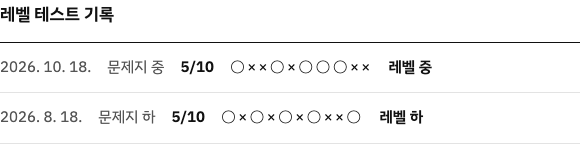
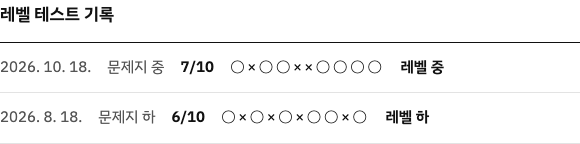
fix(onboard): 레벨 테스트 답이 정답표 밖으로 새지 않게 문항을 다시 짠다
왜: 레벨 테스트는 룰베이스 채점이다. 단답형 중 "몇 번"(4 · 4번 · 네 번 · 4회),
기호(>= · ≥ · =>), 식(-1 · len(names)-1) 은 학생이 맞게 알아도 정답표에 없는 꼴로
적으면 틀린 것으로 잡힌다. 채점 쪽 norm() 은 공백·따옴표·대소문자만 지우므로
그 범위 안에서 꼴이 하나로 정해지는 답 — print 가 찍는 숫자 하나 · 낱말 하나
(8, 11, 3, 4, 7, 나, 우산, 민지야) — 만 단답형으로 남기고 나머지는 객관식으로 바꿨다.
"3개" 처럼 단위를 붙인 답은 화면에 찍히는 값이 아니므로 받지 않는다.

같이 중·상을 쉽게 했다(사용자: 아이들에게 어렵다).
- 중 d6 dict.get 세기 → d12 append 뒤 len (단답 4)
- 중 d7 코드 B sum(map(int, ...)) → d13 print(len(data.split(",")))
- 중 d10 -1 인덱싱 → d15 고정 인덱스 names[2] 가 명단이 늘면 무엇을 내는지(객관식)
- 중 d3 · d9, 하 l8, 상 h7 · h10 → 같은 문제를 객관식으로 (d11 · d14 · l11 · h12 · h14)
- 상 h4(None 반환) 삭제 → h11 반례 찾기: 쉼표로 세는 코드가 틀리는 입력(구분자 변화)
- 상 h9(빈 리스트 평균 — h5 와 중복) 삭제 → h13 "사과 " == "사과" (보이지 않는 공백)
각 문제지 10문항, 객관식 마지막 보기 '모르겠어요', 중 문제지 문법 6 · 의도 4 자리 유지.

호환: 바뀐 문항은 모두 새 id 를 쓴다. 같은 id 에 다른 문제를 걸면 예전 기록이
새 정답표로 채점돼 선생님 화면의 ○/× 와 레벨이 소리 없이 바뀐다. 예전 id 와 정답은
KEY 에 남기고, 기록에 지금 문제지에서 빠진 V1 id 가 있으면 V1 순서로 푼다
(중 문제지 문법/의도 · 하드코딩 문항은 자리로 정한다 — 앞 여섯 · 뒤 넷 · 일곱째).

거절한 선택지:
- 채점 쪽 정규화를 넓히기(4회·네번·≥ 까지 받아 주기) — 끝없는 목록이 되고,
  "봐주는 비교" 는 CLAUDE.md 에서 거절한 것과 같은 결.
- 같은 id 를 그대로 두고 문제만 바꾸기 — 예전 기록이 깨진다.
- 단답형을 모두 없애기 — 보기를 고르면 추측이 섞인다. 꼴이 하나인 답은 쓰게 둔다.

diff --git a/js/core/onboard.js b/js/core/onboard.js
@@ -3,7 +3,11 @@
  * 문제지는 하(low) · 중(mid) · 상(high). 선생님이 지정할 때 고르고, 지정 없이 처음 들어온 학생은 중.
  * 학생 화면은 문제만 낸다 — 어느 문제지인지(하/중/상)는 학생 화면 어디에도 쓰지 않는다 (2026-10-20 사람이 정함).
  *
- * 중(mid): 문법 6문항(d1~d6) + 의도 4문항(d7~d10). 객관식은 고르고, 단답형은 짧게 쓴다.
+ * 중(mid): 문법 6문항(앞 여섯) + 의도 4문항(뒤 넷). 객관식은 고르고, 단답형은 짧게 쓴다.
+ *
+ * 채점은 룰베이스다 — 학생이 쓴 글자가 정답표 밖으로 새면 안 된다 (2026-10-21 사람이 정함).
+ * 단답형은 화면에 찍히는 값이 숫자 하나 · 낱말 하나뿐인 문항만 남긴다("8", "나", "우산").
+ * "몇 번" 처럼 "4", "4번", "네 번" 으로 갈리는 것, ">=" 같은 기호, 식("len(names)-1")은 객관식으로 바꿨다.
  * 맞았는지는 학생 화면에 절대 내보내지 않는다 — 결과가 보이는 순간 학생은 다음 미션에서도 "맞히러" 간다.
  * 해석(stage)은 교사 화면만 쓴다. 상 = ready, 중 = combine, 하 = base (생성 서버가 이 키를 받는다).
  *
@@ -13,11 +17,14 @@
  *
  * 하(low): 기초 10문항(l1~l10 — print · 변수 · 글자와 숫자 · 리스트 번호 · 간단한 if/for).
  *   쉬운 문제지라 상을 줄 근거가 없다: 8개 이상 맞으면 중, 아니면 하.
- * 상(high): 어려운 10문항(h1~h10 — 사전 세기 · 겹친 조건 · 함수와 return · 빈 리스트 · 하나 차이 · > 와 >=).
+ * 상(high): 어려운 10문항(사전 세기 · 겹친 조건 · 함수와 return · 빈 리스트 · 반례 찾기 · 하나 차이 · <= · 보이지 않는 공백).
  *   어려운 문제지라 몇 개 틀려도 하로 내리지 않는다: 7개 이상 상, 2개 이하 하, 그 사이 중.
- *   h8 은 d7 처럼 하드코딩을 알아보는지 본다. 하 문제지에는 그런 문항이 없어 hardcode 는 늘 false.
+ *   h8 은 중 문제지 일곱째 문항(d13, 예전 d7)처럼 하드코딩을 알아보는지 본다. 하 문제지에는 그런 문항이 없어 hardcode 는 늘 false.
  *
  * 정답표 KEY 는 이 파일 밖으로 나가지 않는다. QUESTIONS 에도 섞지 않는다.
+ *
+ * 문항을 바꾸면 id 를 새로 쓴다 — 같은 id 에 다른 문제를 걸면 예전 기록이 새 정답표로 채점된다.
+ * 예전 문제지(V1, 2026-10-21 이전)의 id 와 정답은 KEY 에 남겨 두고, 기록에 빠진 id 가 있으면 V1 순서로 푼다.
  */
 (function (CC) {
   'use strict';
@@ -34,7 +41,7 @@
     { id: 'l5', code: 'fruits = ["사과", "배", "귤"]\nprint(fruits[0])', ask: ASK, options: ['사과', '배', '귤', DUNNO] },
     { id: 'l6', code: 'nums = [4, 7, 9]\nprint(len(nums))', ask: ASK },
     { id: 'l7', code: 'age = 14\nif age >= 14:\n    print("중학생")\nelse:\n    print("초등학생")', ask: ASK, options: ['중학생', '초등학생', '둘 다', DUNNO] },
-    { id: 'l8', code: 'for i in range(4):\n    print("*")', ask: '"*"은 몇 번 나올까요?' },
+    { id: 'l11', code: 'for i in range(4):\n    print("*")', ask: '"*"은 몇 번 나올까요?', options: ['3번', '4번', '5번', DUNNO] },
     { id: 'l9', code: 'name = "민지"\nprint(name + "야")', ask: ASK },
     { id: 'l10', code: 'total = 0\nfor n in [1, 2, 3]:\n    total = total + n\nprint(total)', ask: ASK, options: ['3', '6', '123', DUNNO] }
   ];
@@ -44,46 +51,49 @@
       ask: ASK, options: ["{'짜장': 3, '짬뽕': 1}", "{'짜장': 1, '짬뽕': 1}", "['짜장', '짬뽕']", DUNNO] },
     { id: 'h2', code: 't = 30\nrain = True\nif t > 25:\n    if rain:\n        print("우산")\n    else:\n        print("모자")\nelse:\n    print("겉옷")', ask: ASK },
     { id: 'h3', code: 'def double(n):\n    return n * 2\n\nprint(double(3) + 1)', ask: ASK },
-    { id: 'h4', code: 'def f(n):\n    print(n)\n\nx = f(5)\nprint(x)', ask: '두 줄에 각각 무엇이 나올까요?', options: ['5 그리고 5', '5 그리고 None', 'None 그리고 5', DUNNO] },
+    { id: 'h11', code: '# 하고 싶은 것: 친구가 몇 명인지 세기\nnames = "가은,도윤,서아"\nprint(len(names.split(",")))',
+      ask: 'names가 어떤 글이면 실제 친구 수와 다르게 나올까요?', options: ['"민서,하람"', '"민서 하람"', '"민서,하람,지우"', DUNNO] },
     { id: 'h5', code: 'scores = []\nprint(sum(scores) / len(scores))', ask: ASK, options: ['0', '0.0', '에러가 나요', DUNNO] },
     { id: 'h6', code: 'for i in range(1, 5):\n    print(i)', ask: '마지막에 나오는 수는 무엇일까요?' },
-    { id: 'h7', code: '# 하고 싶은 것: 10살 이하면 "어린이 요금"\nage = 10\nif age < 10:\n    print("어린이 요금")',
-      ask: '하고 싶은 것과 맞게 하려면 < 자리에 무엇을 써야 할까요?' },
+    { id: 'h12', code: '# 하고 싶은 것: 10살 이하면 "어린이 요금"\nage = 10\nif age < 10:\n    print("어린이 요금")',
+      ask: '하고 싶은 것과 맞게 하려면 < 자리에 무엇을 써야 할까요?', options: ['<=', '>', '==', DUNNO] },
     { id: 'h8', code: '# 하고 싶은 것: 점수 중 가장 큰 값 보여 주기\nscores = [70, 95, 88]\nprint(95)',
       ask: 'scores를 [60, 75]로 바꾸면 무엇이 나올까요?', options: ['75', '95', '에러가 나요', DUNNO] },
-    { id: 'h9', code: '# 하고 싶은 것: 우리 반 평균 키 구하기\nprint(sum(heights) / len(heights))',
-      ask: '평균을 구하기 전에 무엇을 먼저 확인해야 할까요?', options: ['명단이 비었는지', '가장 큰 키가 얼마인지', '명단이 정렬됐는지', DUNNO] },
-    { id: 'h10', code: 'names = ["가은", "도윤", "서아"]\nfor i in range(len(names) - 1):\n    print(names[i])', ask: '이름은 몇 개 나올까요?' }
+    { id: 'h13', code: 'a = "사과 "\nprint(a == "사과")', ask: ASK, options: ['True', 'False', '에러가 나요', DUNNO] },
+    { id: 'h14', code: 'names = ["가은", "도윤", "서아"]\nfor i in range(len(names) - 1):\n    print(names[i])', ask: '이름은 몇 개 나올까요?',
+      options: ['2개', '3개', '에러가 나요', DUNNO] }
   ];
 
   var QUESTIONS = [
     { id: 'd1', code: 'print("3" + "4")', ask: ASK, options: ['34', '7', '에러가 나요', DUNNO] },
     { id: 'd2', code: 'x = ["가", "나", "다"]\nprint(x[1])', ask: ASK },
-    { id: 'd3', code: 'for i in range(3):\n    print("안녕")', ask: '"안녕"은 몇 번 나올까요?' },
+    { id: 'd11', code: 'for i in range(3):\n    print("안녕")', ask: '"안녕"은 몇 번 나올까요?', options: ['2번', '3번', '4번', DUNNO] },
     { id: 'd4', code: 'n = 7\nif n > 5:\n    print("크다")\nelse:\n    print("작다")', ask: ASK, options: ['작다', '크다', '크다와 작다 둘 다', DUNNO] },
     { id: 'd5', code: 'data = "a,b,c"\nparts = data.split(",")\nprint(len(parts))', ask: ASK },
-    { id: 'd6', code: 'data = ["떡볶이", "우동", "떡볶이"]\nd = {}\nfor x in data:\n    d[x] = d.get(x, 0) + 1\nprint(d["떡볶이"])',
-      ask: ASK, options: ['1', '2', '3', DUNNO] },
-    { id: 'd7', code: '# 코드 A\ndata = "2,3,5"\nprint(2+3+5)\n\n# 코드 B\ndata = "2,3,5"\nprint(sum(map(int, data.split(","))))',
+    { id: 'd12', code: 'nums = [5, 1, 4]\nnums.append(2)\nprint(len(nums))', ask: ASK },
+    { id: 'd13', code: '# 코드 A\ndata = "2,3,5"\nprint(3)\n\n# 코드 B\ndata = "2,3,5"\nprint(len(data.split(",")))',
       ask: 'data를 "1,1"로 바꾸면 코드 A와 코드 B는 각각 무엇이 나올까요?',
-      options: ['A는 10, B는 10', 'A는 2, B는 2', 'A는 10, B는 2', DUNNO] },
+      options: ['A는 3, B는 3', 'A는 2, B는 2', 'A는 3, B는 2', DUNNO] },
     { id: 'd8', code: 'orders = "떡볶이,우동,떡볶이,김밥"',
       ask: '주문에 메뉴가 몇 종류인지 알고 싶어요. 어떤 순서로 하면 될까요?',
       options: ['나누기 → 겹친 것은 하나만 → 개수 세기', '나누기 → 개수 세기 → 겹친 것은 하나만', '겹친 것은 하나만 → 개수 세기', DUNNO] },
-    { id: 'd9', code: '# 하고 싶은 것: 60점 이상이면 "통과"\nscore = 60\nif score > 60:\n    print("통과")\nelse:\n    print("다시")',
-      ask: '하고 싶은 것과 맞게 하려면 > 자리에 무엇을 써야 할까요?' },
-    { id: 'd10', code: '# 하고 싶은 것: 명단의 마지막 이름 보여 주기 (명단 길이는 매번 달라요)\nnames = ["민서", "가은", "하람"]\nprint(names[2])',
-      ask: '명단 길이가 바뀌어도 늘 마지막 이름이 나오려면 [ ] 안에 무엇을 써야 할까요?' }
+    { id: 'd14', code: '# 하고 싶은 것: 60점 이상이면 "통과"\nscore = 60\nif score > 60:\n    print("통과")\nelse:\n    print("다시")',
+      ask: '하고 싶은 것과 맞게 하려면 > 자리에 무엇을 써야 할까요?', options: ['>=', '<', '==', DUNNO] },
+    { id: 'd15', code: '# 하고 싶은 것: 명단의 마지막 이름 보여 주기\nnames = ["민서", "가은", "하람"]\nprint(names[2])',
+      ask: '명단에 "도윤"이 하나 더 붙으면 무엇이 나올까요?', options: ['하람', '도윤', '에러가 나요', DUNNO] }
   ];
 
-  /* 객관식은 보기 번호, 단답형은 받아 주는 답 목록(공백·따옴표·대소문자는 보지 않는다) */
-  var KEY = { d1: 0, d2: ['나'], d3: ['3', '3번', '세번'], d4: 1, d5: ['3'], d6: 1, d7: 2, d8: 0, d9: ['>='], d10: ['-1', 'len(names)-1'],
-    l1: 0, l2: ['8'], l3: 1, l4: ['11'], l5: 0, l6: ['3'], l7: 0, l8: ['4', '4번', '네번'], l9: ['민지야'], l10: 1,
-    h1: 0, h2: ['우산'], h3: ['7'], h4: 1, h5: 2, h6: ['4'], h7: ['<='], h8: 1, h9: 0, h10: ['2', '2개', '두개'] };
+  /* 객관식은 보기 번호, 단답형은 받아 주는 답 목록(공백·따옴표·대소문자는 보지 않는다).
+   * 아래 줄의 "V1" 은 2026-10-21 이전 문항 — 예전 기록을 푸는 데만 쓴다 */
+  var KEY = { d1: 0, d2: ['나'], d11: 1, d4: 1, d5: ['3'], d12: ['4'], d13: 2, d8: 0, d14: 0, d15: 0,
+    l1: 0, l2: ['8'], l3: 1, l4: ['11'], l5: 0, l6: ['3'], l7: 0, l11: 1, l9: ['민지야'], l10: 1,
+    h1: 0, h2: ['우산'], h3: ['7'], h11: 1, h5: 2, h6: ['4'], h12: 0, h8: 1, h13: 1, h14: 0,
+    /* V1 */ d3: ['3', '3번', '세번'], d6: 1, d7: 2, d9: ['>='], d10: ['-1', 'len(names)-1'], l8: ['4', '4번', '네번'],
+    h4: 1, h7: ['<='], h9: 0, h10: ['2', '2개', '두개'] };
   var SETS = { low: LOW, mid: QUESTIONS, high: HIGH };
   var SET_LABEL = { low: '하', mid: '중', high: '상' };   /* 선생님 화면만 쓴다 */
-  var SYNTAX = ['d1', 'd2', 'd3', 'd4', 'd5', 'd6'];
-  var INTENT = ['d7', 'd8', 'd9', 'd10'];
+  var seq = function (p) { return [1, 2, 3, 4, 5, 6, 7, 8, 9, 10].map(function (i) { return p + i; }); };
+  var V1 = { low: seq('l'), mid: seq('d'), high: seq('h') };
 
   function norm(v) { return String(v).replace(/\s+/g, '').replace(/["'“”‘’]/g, '').toLowerCase(); }
   function right(id, pick) {
@@ -108,12 +118,17 @@
     return picks;
   }
   function setOf(set) { return Object.prototype.hasOwnProperty.call(SETS, set) ? set : 'mid'; }   /* set 이 없던 예전 기록은 중 */
+  /* 이 기록을 낸 문제지의 문항 id 순서 — 지금 문제지에서 빠진 V1 id 가 들어 있으면 V1 */
+  function idsOf(set, picks) {
+    var now = SETS[set].map(function (q) { return q.id; });
+    return V1[set].some(function (id) { return now.indexOf(id) < 0 && id in picks; }) ? V1[set] : now;
+  }
 
   /* 문항별 맞음 [true, false, ...] — 문제지 순서대로. 예전 8문항 기록은 q1~q8 */
   function marks(answers, set) {
     var picks = picksOf(answers);
     if ('q1' in picks) return Object.keys(OLD_KEY).map(function (id) { return picks[id] === OLD_KEY[id]; });
-    return SETS[setOf(set)].map(function (q) { return right(q.id, picks[q.id]); });
+    return idsOf(setOf(set), picks).map(function (id) { return right(id, picks[id]); });
   }
 
   /* answers: [{q, pick}], set → {stage, hardcode}. 답하지 않은 문항은 틀린 것으로 본다 */
@@ -127,10 +142,11 @@
       return { stage: n >= 7 ? 'ready' : n <= 2 ? 'base' : 'combine', hardcode: !right('h8', picks.h8) };
     }
     var count = function (ids) { return ids.filter(function (id) { return right(id, picks[id]); }).length; };
-    var syn = count(SYNTAX), intent = count(INTENT);
+    var ids = idsOf(set, picks);                                     /* 앞 여섯은 문법, 뒤 넷은 의도. 일곱째가 하드코딩 문항 */
+    var syn = count(ids.slice(0, 6)), intent = count(ids.slice(6));
     return {
       stage: syn <= 2 ? 'base' : syn >= 5 && intent >= 3 ? 'ready' : 'combine',
-      hardcode: !right('d7', picks.d7)
+      hardcode: !right(ids[6], picks[ids[6]])
     };
   }
 

diff --git a/test/layer.test.js b/test/layer.test.js
@@ -170,21 +170,31 @@ t('객관식 마지막 보기는 모르겠어요', OB.QUESTIONS.filter(q => q.op
 t('모든 질문은 ? 로 끝나고 80자 이하', OB.QUESTIONS.every(q => /\?$/.test(q.ask) && q.ask.length <= 80));
 t('정답표는 밖에 없다', !('KEY' in OB) && OB.QUESTIONS.every(q => Object.keys(q).every(k => ['id', 'code', 'ask', 'options'].indexOf(k) >= 0)));
 /* 정답은 문항을 보고 사람이 적은 것 — core 의 정답표를 베끼지 않는다. 단답형은 쓴 글자 그대로 */
-const RIGHT = { d1: '34', d2: '나', d3: '3', d4: '크다', d5: '3', d6: '2', d7: 'A는 10, B는 2',
-  d8: '나누기 → 겹친 것은 하나만 → 개수 세기', d9: '>=', d10: '-1' };
+const RIGHT = { d1: '34', d2: '나', d11: '3번', d4: '크다', d5: '3', d12: '4', d13: 'A는 3, B는 2',
+  d8: '나누기 → 겹친 것은 하나만 → 개수 세기', d14: '>=', d15: '하람' };
 const pickOf = (q, v) => q.options ? q.options.indexOf(v) : v;
 const ans = (over) => OB.QUESTIONS.map(q => ({ q: q.id, pick: q.id in (over || {}) ? over[q.id] : pickOf(q, RIGHT[q.id]) }));
 const DUNNO = q => { const x = OB.QUESTIONS.find(y => y.id === q); return x.options ? x.options.length - 1 : null; };
 t('보기에 사람이 적은 정답이 다 있다', OB.QUESTIONS.filter(q => q.options).every(q => q.options.indexOf(RIGHT[q.id]) >= 0 && q.options.indexOf(RIGHT[q.id]) < q.options.length - 1));
 t('다 맞으면 상(ready), hardcode 아님', JSON.stringify(OB.stage(ans())) === JSON.stringify({ stage: 'ready', hardcode: false }));
-t('단답형은 공백·따옴표·대소문자를 보지 않는다', OB.stage(ans({ d2: ' "나" ', d9: '> =', d10: 'LEN(names) - 1' })).stage === 'ready');
-t('단답형 3번 도 받는다', OB.stage(ans({ d3: '3번' })).stage === 'ready');
-t('문법 6개 중 4개 틀리면 하(base)', OB.stage(ans({ d1: 1, d2: '가', d3: DUNNO('d3'), d4: 0 })).stage === 'base');
-t('문법 3개만 맞으면 의도를 다 맞혀도 중', OB.stage(ans({ d1: 1, d2: '가', d3: '4' })).stage === 'combine');
-t('문법은 다 맞고 의도 2개만 → 중(combine)', OB.stage(ans({ d8: 1, d9: '>' })).stage === 'combine');
-t('문법 5개 + 의도 3개 → 상', OB.stage(ans({ d5: '1', d10: '2' })).stage === 'ready');
-t('d7 모르겠어요 → hardcode', OB.stage(ans({ d7: DUNNO('d7') })).hardcode === true);
-t('d7 오답 → hardcode, 단계는 그대로', JSON.stringify(OB.stage(ans({ d7: 1 }))) === JSON.stringify({ stage: 'ready', hardcode: true }));
+t('단답형은 공백·따옴표를 보지 않는다', OB.stage(ans({ d2: ' "나" ', d12: ' 4 ' })).stage === 'ready');
+/* 룰베이스 채점 — 단답형은 화면에 찍히는 숫자 하나·낱말 하나만. 꼴이 갈리는 답(몇 번 · 기호 · 식)은 객관식 */
+const SHORT = [].concat(OB.SETS.low, OB.SETS.mid, OB.SETS.high).filter(q => !q.options).map(q => q.id).sort().join();
+t('단답형은 숫자 하나·낱말 하나로 답이 정해지는 문항만', SHORT === 'd2,d12,d5,h2,h3,h6,l2,l4,l6,l9'.split(',').sort().join());
+t('문법 6개 중 4개 틀리면 하(base)', OB.stage(ans({ d1: 1, d2: '가', d11: DUNNO('d11'), d4: 0 })).stage === 'base');
+t('문법 3개만 맞으면 의도를 다 맞혀도 중', OB.stage(ans({ d1: 1, d2: '가', d11: 2 })).stage === 'combine');
+t('문법은 다 맞고 의도 2개만 → 중(combine)', OB.stage(ans({ d8: 1, d14: 2 })).stage === 'combine');
+t('문법 5개 + 의도 3개 → 상', OB.stage(ans({ d5: '1', d15: 1 })).stage === 'ready');
+t('d13 모르겠어요 → hardcode', OB.stage(ans({ d13: DUNNO('d13') })).hardcode === true);
+t('d13 오답 → hardcode, 단계는 그대로', JSON.stringify(OB.stage(ans({ d13: 1 }))) === JSON.stringify({ stage: 'ready', hardcode: true }));
+/* 2026-10-21 이전 문제지(V1) 기록 — 바뀐 문항은 새 id 라서 예전 답은 예전 정답표로 푼다 */
+const V1MID = { d1: 0, d2: '나', d3: '3번', d4: 1, d5: '3', d6: 1, d7: 2, d8: 0, d9: '>=', d10: 'len(names)-1' };
+const v1 = (o, over) => Object.keys(o).map(q => ({ q, pick: q in (over || {}) ? over[q] : o[q] }));
+t('V1 중 기록 — 다 맞으면 그대로 상, 10문항', JSON.stringify(OB.stage(v1(V1MID), 'mid')) === JSON.stringify({ stage: 'ready', hardcode: false }) && OB.marks(v1(V1MID), 'mid').every(Boolean) && OB.marks(v1(V1MID), 'mid').length === 10);
+t('V1 중 기록 — d7 오답이면 hardcode', OB.stage(v1(V1MID, { d7: 0 }), 'mid').hardcode === true);
+const V1HIGH = { h1: 0, h2: '우산', h3: '7', h4: 1, h5: 2, h6: '4', h7: '<=', h8: 1, h9: 0, h10: '2개' };
+t('V1 상 기록 — 다 맞으면 10개 모두 참', OB.marks(v1(V1HIGH), 'high').every(Boolean) && OB.stage(v1(V1HIGH), 'high').stage === 'ready');
+t('V1 하 기록 — l8 은 예전 정답표', OB.marks([{ q: 'l8', pick: '4번' }], 'low')[7] === true);
 t('답하지 않은 문항은 틀린 것으로', OB.stage([]).stage === 'base' && OB.stage([]).hardcode === true);
 t('예전 8문항 기록은 예전 규칙으로', JSON.stringify(OB.stage(['q1', 'q2', 'q3', 'q4', 'q5', 'q6', 'q7', 'q8'].map((q, i) => ({ q, pick: [0, 2, 1, 1, 1, 1, 0, 2][i] })))) === JSON.stringify({ stage: 'combine', hardcode: false }));
 t('상·중·하 이름', OB.LABEL.ready === '상' && OB.LABEL.combine === '중' && OB.LABEL.base === '하');
@@ -218,8 +228,8 @@ t('문제지 이름은 선생님 화면용', OB.SET_LABEL.low === '하' && OB.SE
 const allIds = [].concat(SETS.low, SETS.mid, SETS.high).map(q => q.id);
 t('문항 id 는 셋 전체에서 겹치지 않는다', new Set(allIds).size === 30);
 /* 사람이 문항을 보고 적은 정답 */
-const RIGHT2 = { l1: '안녕', l2: '8', l3: '5 그리고 23', l4: '11', l5: '사과', l6: '3', l7: '중학생', l8: '4', l9: '민지야', l10: '6',
-  h1: "{'짜장': 3, '짬뽕': 1}", h2: '우산', h3: '7', h4: '5 그리고 None', h5: '에러가 나요', h6: '4', h7: '<=', h8: '95', h9: '명단이 비었는지', h10: '2' };
+const RIGHT2 = { l1: '안녕', l2: '8', l3: '5 그리고 23', l4: '11', l5: '사과', l6: '3', l7: '중학생', l11: '4번', l9: '민지야', l10: '6',
+  h1: "{'짜장': 3, '짬뽕': 1}", h2: '우산', h3: '7', h11: '"민서 하람"', h5: '에러가 나요', h6: '4', h12: '<=', h8: '95', h13: 'False', h14: '2개' };
 const ansOf = (k, over) => SETS[k].map(q => ({ q: q.id, pick: q.id in (over || {}) ? over[q.id] : pickOf(q, RIGHT2[q.id]) }));
 t('하·상 보기에 정답이 있다', SETS.low.concat(SETS.high).filter(q => q.options).every(q => q.options.indexOf(RIGHT2[q.id]) >= 0 && q.options.indexOf(RIGHT2[q.id]) < q.options.length - 1));
 t('marks — 다 맞으면 10개 모두 참', OB.marks(ansOf('low'), 'low').every(Boolean) && OB.marks(ansOf('high'), 'high').every(Boolean) && OB.marks(ans(), 'mid').length === 10);
@@ -227,7 +237,7 @@ t('marks — 문제지 순서대로 ○/×', OB.marks(ansOf('low', { l2: '9' }),
 t('하 문제지 — 다 맞아도 중이 끝', OB.stage(ansOf('low'), 'low').stage === 'combine');
 t('하 문제지 — 8개는 중, 7개는 하', OB.stage(ansOf('low', { l1: 1, l2: '0' }), 'low').stage === 'combine' && OB.stage(ansOf('low', { l1: 1, l2: '0', l4: '10' }), 'low').stage === 'base');
 t('상 문제지 — 7개 상, 6개 중, 2개 하', OB.stage(ansOf('high', { h1: 1, h2: '모자', h3: '6' }), 'high').stage === 'ready'
-  && OB.stage(ansOf('high', { h1: 1, h2: '모자', h3: '6', h4: 0 }), 'high').stage === 'combine' && OB.stage([{ q: 'h1', pick: 0 }, { q: 'h2', pick: '우산' }], 'high').stage === 'base');
+  && OB.stage(ansOf('high', { h1: 1, h2: '모자', h3: '6', h11: 0 }), 'high').stage === 'combine' && OB.stage([{ q: 'h1', pick: 0 }, { q: 'h2', pick: '우산' }], 'high').stage === 'base');
 t('상 문제지 — h8 오답이면 hardcode', OB.stage(ansOf('high', { h8: 0 }), 'high').hardcode === true && OB.stage(ansOf('high'), 'high').hardcode === false);
 t('set 이 없거나 모르는 이름이면 중', OB.stage(ans()).stage === 'ready' && OB.stage(ans(), 'toString').stage === 'ready' && OB.marks(ans(), '__proto__').length === 10);
 t('예전 8문항 기록 marks 는 8개', OB.marks([{ q: 'q1', pick: 0 }]).length === 8);
